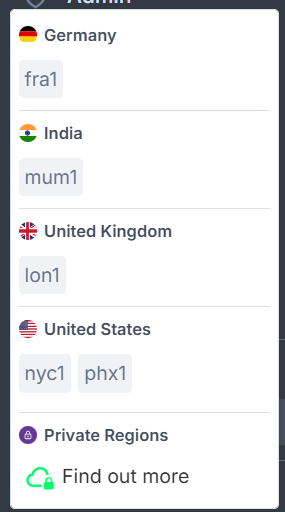
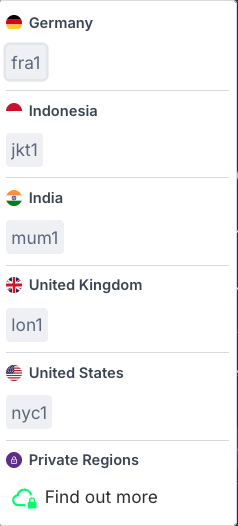
Regions: remove PHX1, add JKT1 (#222)

Changed region(s): [[0.0, 0.0, 1.0, 1.0]]

diff --git a/content/docs/overview/regions.md b/content/docs/overview/regions.md
@@ -39,12 +39,12 @@ You can also pass a `--region <CODE>` parameter to any CLI command to execute it
 
 ## What products are available per region?
 
-| Products | LON1 | FRA1 | NYC1 | PHX1 | MUM1 |
-|----------|------|------|------|------|------|
+| Products | LON1 | FRA1 | NYC1 | MUM1 | JKT1 |
+| ---------- | ------ | ------ | ------ | ------ | ------ |
 | CPU Kubernetes | 🟢 Available | 🟢 Available | 🟢 Available | 🟢 Available | 🟢 Available |
 | GPU Kubernetes | 🟢 Available | 🔴 Unavailable | 🔴 Unavailable | 🔴 Unavailable | 🔴 Unavailable |
 | CPU Compute | 🟢 Available | 🟢 Available | 🟢 Available | 🟢 Available | 🟢 Available |
 | GPU Compute | 🟢 Available | 🔴 Unavailable | 🔴 Unavailable | 🔴 Unavailable | 🔴 Unavailable |
-| Object Stores | 🟢 Available | 🟢 Available | 🟢 Available | 🔴 Unavailable | 🟢 Available |
+| Object Stores | 🟢 Available | 🟢 Available | 🟢 Available | 🟢 Available | 🔴 Unavailable |
 | Volumes | 🟢 Available | 🟢 Available | 🟢 Available | 🟢 Available | 🟢 Available |
 | Databases | 🟢 Available | 🟢 Available | 🟢 Available | 🟢 Available | 🟢 Available |
